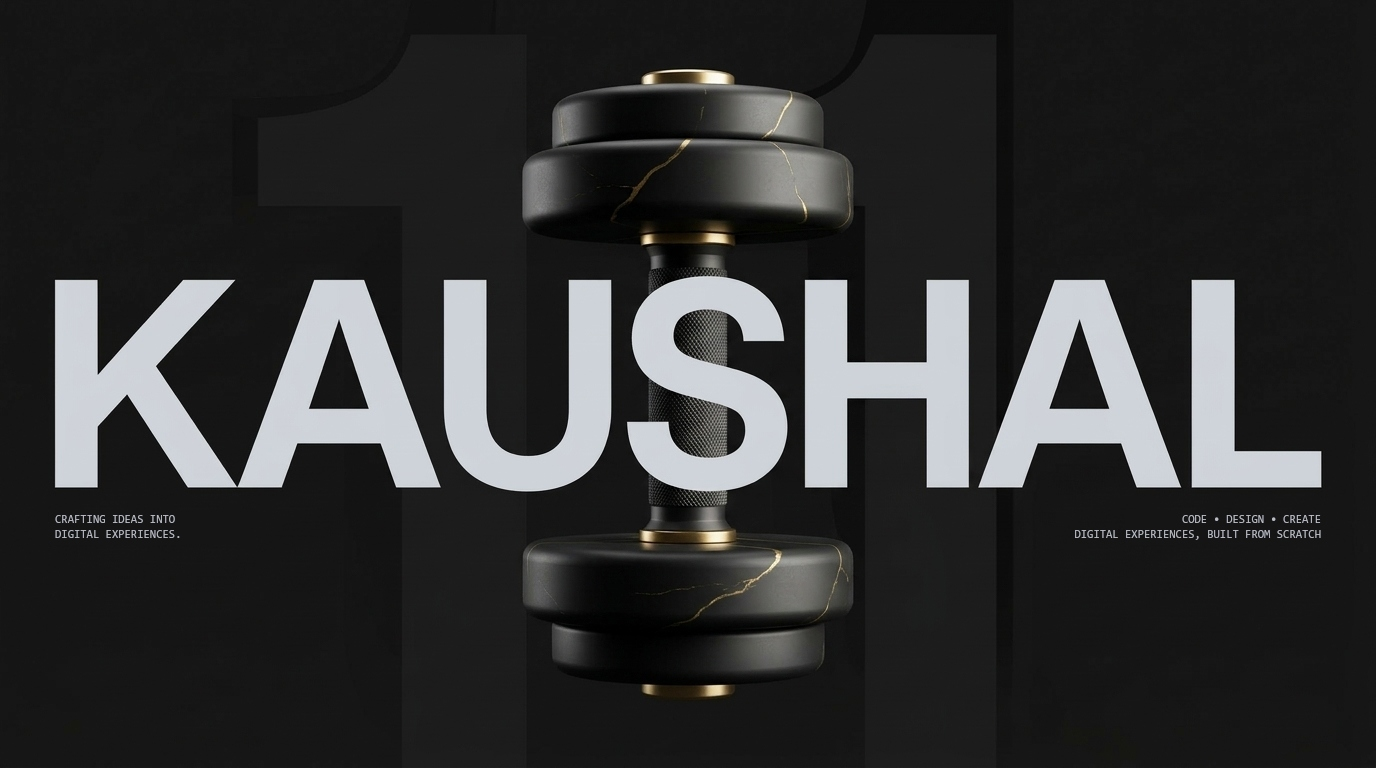
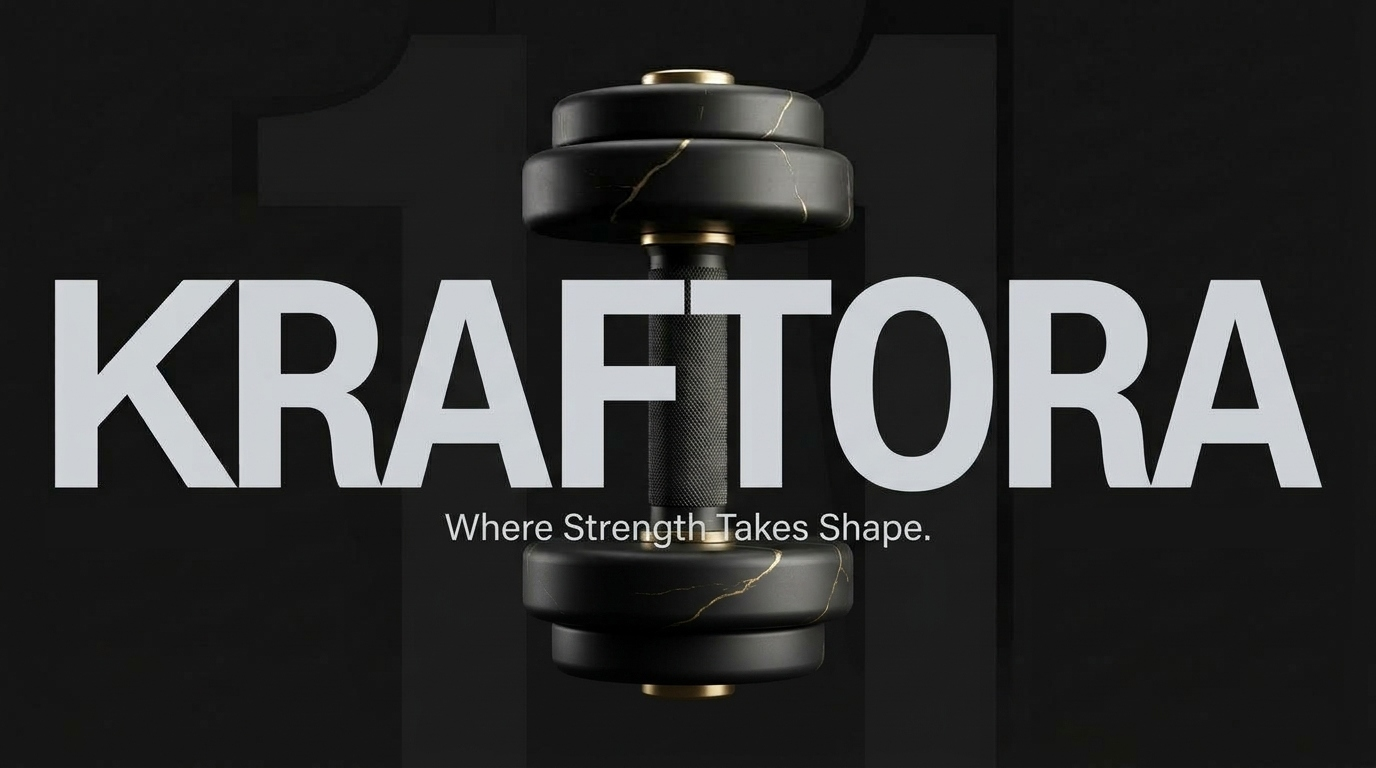
Update hero head typography to KRAFTORA with slogan 'Where Strength Takes Shape.'

Changed region(s): [[0.1562, 0.3438, 0.9688, 0.7188], [0.0312, 0.6562, 0.125, 0.7188]]

diff --git a/index.html b/index.html
@@ -3,15 +3,15 @@
   <head>
     <meta charset="utf-8">
     <meta name="viewport" content="width=device-width, initial-scale=1.0">
-    <title>Kaushal Shrestha (ZeyRox) | Full-Stack Creative Developer & Digital Architect</title>
-    <meta name="description" content="Portfolio of Kaushal Shrestha (ZeyRox) - Creative Full-Stack Developer specializing in high-performance digital products, modern web engineering, and immersive UI/UX experiences.">
-    <meta name="keywords" content="Kaushal Shrestha, ZeyRox, Portfolio, Web Developer, Full-Stack Developer, Creative Developer, UI/UX Designer">
-    <meta name="author" content="Kaushal Shrestha">
+    <title>KRAFTORA | Where Strength Takes Shape</title>
+    <meta name="description" content="KRAFTORA — Where Strength Takes Shape. Digital engineering, creative web development, and immersive interactive design.">
+    <meta name="keywords" content="KRAFTORA, Where Strength Takes Shape, Kaushal Shrestha, Web Developer, Full-Stack Developer, Creative Developer, UI/UX Designer">
+    <meta name="author" content="KRAFTORA">
 
     <!-- Open Graph / Meta -->
     <meta property="og:type" content="website">
-    <meta property="og:title" content="Kaushal Shrestha (ZeyRox) // Portfolio">
-    <meta property="og:description" content="Engineering digital experiences with weight and precision. Full-Stack Developer & Creative Technologist.">
+    <meta property="og:title" content="KRAFTORA // Where Strength Takes Shape">
+    <meta property="og:description" content="Where Strength Takes Shape. Digital engineering with weight and precision.">
     <meta property="og:image" content="images/kaushal-11.jpg">
 
     <!-- Google Fonts -->
@@ -32,9 +32,9 @@
          ========================================================================== -->
     <header class="site-header" id="navbar">
       <div class="container nav-container">
-        <a href="#home" class="brand-logo" aria-label="Kaushal Shrestha Home">
-          <img src="images/kaushal-logo.png" alt="Kaushal-XI Dragon Emblem" class="brand-logo-img">
-          <span class="brand-text">kaushal<span class="dot">.</span>XI</span>
+        <a href="#home" class="brand-logo" aria-label="KRAFTORA Home">
+          <img src="images/kaushal-logo.png" alt="KRAFTORA Emblem" class="brand-logo-img">
+          <span class="brand-text">KRAFTORA<span class="dot">.</span></span>
         </a>
 
         <!-- Desktop Navigation -->
@@ -81,7 +81,7 @@
 
         <!-- Hero Actions & Metrics Row (Lower Hero Area) -->
         <div class="container hero-content">
-          <h1 class="visually-hidden">Kaushal Shrestha (ZeyRox) &mdash; Creative Full-Stack Developer & Digital Architect</h1>
+          <h1 class="visually-hidden">KRAFTORA &mdash; Where Strength Takes Shape</h1>
 
           <div class="hero-actions">
             <a href="#projects" class="btn btn-primary">
@@ -623,9 +623,9 @@
     <footer class="site-footer">
       <div class="container">
         <div class="footer-top">
-          <a href="#home" class="brand-logo" aria-label="Kaushal Shrestha Home">
-            <img src="images/kaushal-logo.png" alt="Kaushal-XI Dragon Emblem" class="brand-logo-img">
-            <span class="brand-text">kaushal<span class="dot">.</span>XI</span>
+          <a href="#home" class="brand-logo" aria-label="KRAFTORA Home">
+            <img src="images/kaushal-logo.png" alt="KRAFTORA Emblem" class="brand-logo-img">
+            <span class="brand-text">KRAFTORA<span class="dot">.</span></span>
           </a>
 
           <ul class="footer-links">
